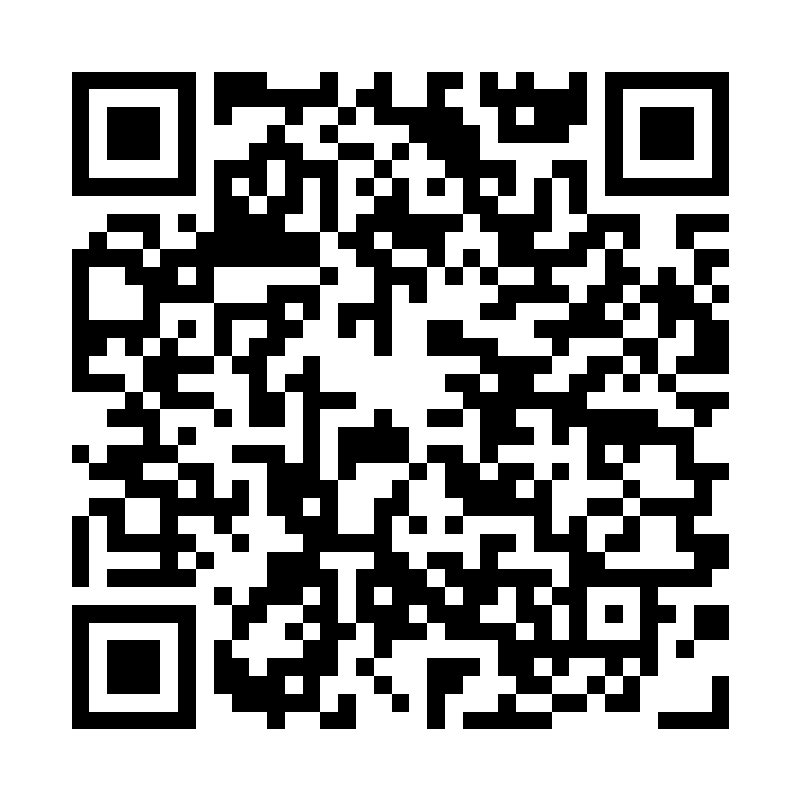
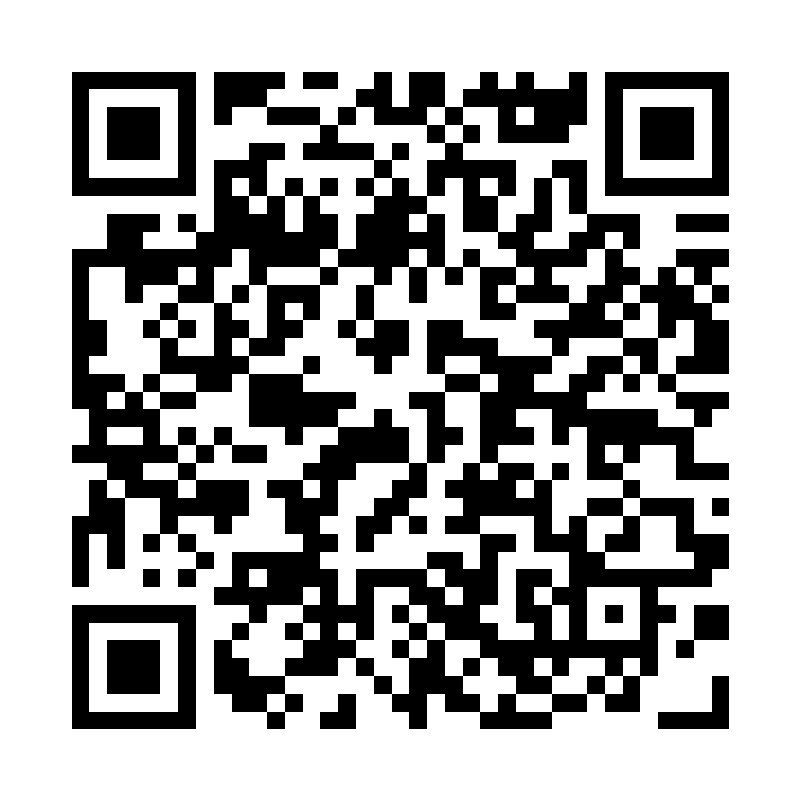
Point /advocacy QR code and links at the .org domain
The .com domain only forwards at the root, so /advocacy on .com 404s.
The QR code and page link now use dieselfreedomcoalition.org/advocacy.

Claude-Session: https://claude.ai/code/session_01Vdcs8JjcA9TX1TGs5Egztt

diff --git a/app/advocacy/AdvocacyPoster.tsx b/app/advocacy/AdvocacyPoster.tsx
@@ -3,7 +3,7 @@
 import { useState } from "react";
 import "./advocacy.css";
 
-const PAGE_URL = "https://dieselfreedomcoalition.com/advocacy";
+const PAGE_URL = "https://dieselfreedomcoalition.org/advocacy";
 const EMAIL = "info@dieselfreedomcoalition.com";
 const DONATE = "https://secure.anedot.com/diesel-freedom-coalition/freedom_donation";
 
@@ -222,12 +222,12 @@ export default function AdvocacyPoster() {
             {/* ---- QR ---- */}
             <div className="adv-qr">
               <a href={PAGE_URL} aria-label="QR code linking to this page">
-                <img src="/advocacy-qr.png" alt="QR code for dieselfreedomcoalition.com/advocacy" width={800} height={800} />
+                <img src="/advocacy-qr.png" alt="QR code for dieselfreedomcoalition.org/advocacy" width={800} height={800} />
               </a>
               <div>
                 <div className="adv-qr-scan">Scan to Learn More</div>
                 <div className="adv-qr-links">
-                  <a href={PAGE_URL}>dieselfreedomcoalition.com/advocacy</a>
+                  <a href={PAGE_URL}>dieselfreedomcoalition.org/advocacy</a>
                   <br />
                   <a href={`mailto:${EMAIL}`}>{EMAIL}</a>
                 </div>

diff --git a/app/advocacy/page.tsx b/app/advocacy/page.tsx
@@ -9,7 +9,7 @@ export const metadata: Metadata = {
     title: "Make Diesels Great Again | Diesel Freedom Coalition",
     description:
       "The Laundering of American Regulatory Policy. Position, rule, crime, prison, pardons. This must stop. Common sense regulations: NOx 2.5, PM 0.10.",
-    url: "https://dieselfreedomcoalition.com/advocacy",
+    url: "https://dieselfreedomcoalition.org/advocacy",
     images: [{ url: "/advocacy-poster.png", width: 1183, height: 1900, alt: "Make Diesels Great Again poster" }],
   },
   twitter: {
